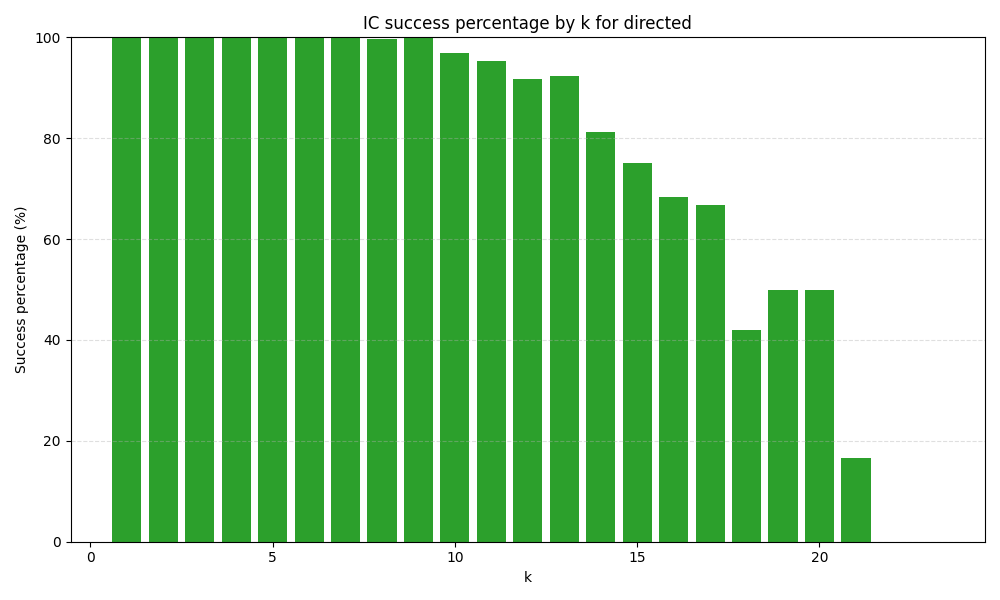
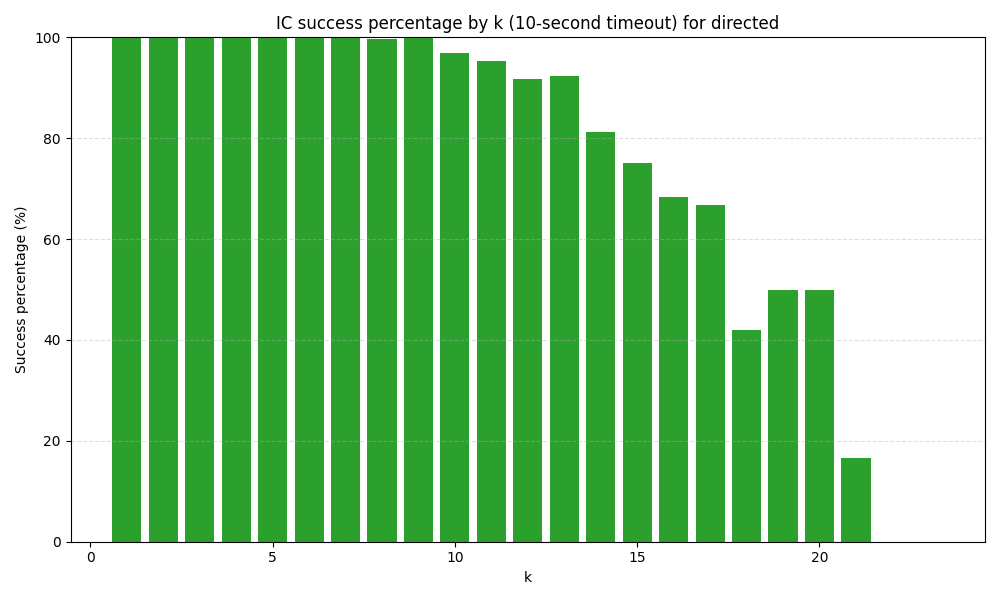
added a new 10 second timeout things

Changed region(s): [[0.279, 0.03, 0.775, 0.06]]

diff --git a/IC-test/analyze_ic_test.py b/IC-test/analyze_ic_test.py
@@ -292,7 +292,7 @@ def analyze_folder(folder_path, show_plots=False):
             plot_percentage_bar_chart(
                 ic_success_by_k,
                 "k",
-                f"IC success percentage by k for {mode}",
+                f"IC success percentage by k (10-second timeout) for {mode}",
                 output_path,
             )
             if show_plots:
